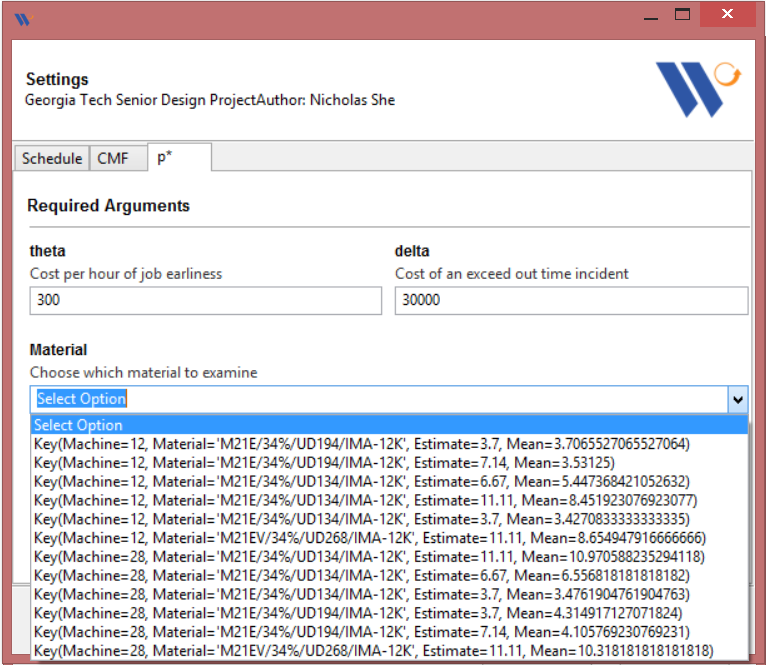
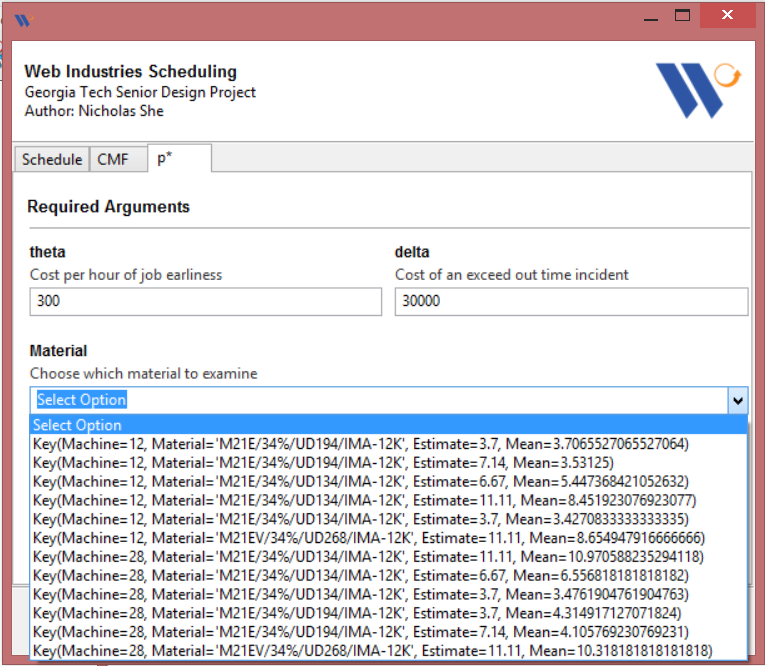
Updated README.md and images

diff --git a/deliverable/driver.py b/deliverable/driver.py
@@ -32,7 +32,7 @@ def main():
     #----------------------------------------------------------------------------
     # Command line arguments.
     # Add a tabbed group for each different program functionality.
-    PARSER = GooeyParser(description = 'Georgia Tech Senior Design Project' \
+    PARSER = GooeyParser(description = 'Georgia Tech Senior Design Project\n' \
                                        'Author: Nicholas She ')
     PARSER.add_argument('--verbose', help='be verbose', dest='verbose',
                         action='store_true', default=False)
@@ -46,7 +46,7 @@ def main():
         "Constrained programming scheduling tool",
         "Specify input and output parameters",
         gooey_options={
-            'show_border': True,
+            'show_border': False,
             'columns': 3})
     io_group.add_argument(
         'Schedule_Input',

diff --git a/README.md b/README.md
@@ -67,56 +67,85 @@ Run the GUI application with the driver
 python driver.py
 ```
 
-## Running the tests
+## Deliverable Instructions
 
-Explain how to run the automated tests for this system
+### Schedule
 
-### Break down into end to end tests
+Input an Excel Spreadsheet with the jobs to be scheduled and output a schedule that minimizes the makespan of all jobs.
 
-Explain what these tests test and why
+<img src="https://github.com/nzqs/sdteam17/blob/master/deliverable/resources/images/GUI%20Schedule%20tab.PNG">
 
-```
-Give an example
-```
+Constrained programming scheduling tool:
+|Field|Explanation|
+|:----------|--------------------------------------------|
+|Schedule_Input|Input Excel File|
+|write_schedule|Path to write output to|
+|sheet|Name of sheet with the jobs|
+|processing|Column of processing times. Populate this column from the p* tab|
+|WO|Column of Work Orders|
+|set|Column of sets in a Work Order|
+|material|Column of the resin type or material|
+|width|Column of the slit widths|
+|due|Column of due dates|
 
-### And coding style tests
+Config Options
+|Field|Explanation|
+|:----------|--------------------------------------------|
+|truncate|If Yes, will group sets together in their respective Work Orders, then schedule Work Orders as jobs. The processing time will be the sum of the processing times of the sets. If No, will schedule each set as a job. Using yes will **greatly** speed up solution time|
+|start_time|When to start the first job of the schedule|
+|max_run|Maximum time in seconds to run the tool. If reached, will output the best schedule found up to that point|
+|output_proto|Write the model into a file|
+|preprocess_times|Build minimal setups into the job duration. Keeping this ticked will speed up the tool|
 
-Explain what these tests test and why
+Example run:
+<img src="https://github.com/nzqs/sdteam17/blob/master/deliverable/resources/images/GUI%20Schedule%20Run%20example.PNG?raw=true">
 
-```
-Give an example
-```
+### CMF
 
-## Deployment
+CMF tab is for inputting historical data to fit empirical mass distributions of processing times for different materials. We use these distributions when calculating optimal allotted processing times in the p* tab.
 
-Add additional notes about how to deploy this on a live system
+<img src="https://github.com/nzqs/sdteam17/blob/master/deliverable/resources/images/GUI%20CMF%20tab.PNG">
 
-## Built With
+Load or modify historical data
+|Field|Explanation|
+|:----------|--------------------------------------------|
+|CMF_Input|Input Excel file containing historical data|
+|sheet|Name of the sheet containing historical data|
+|mat_col|Column of which material or resin jobs were|
+|mach_col|Column of which machine jobs were ran on|
+|estim_col|Column of the estimated processing time used|
+|actual_col|Column of the actual processing time each job took|
 
-* [Dropwizard](http://www.dropwizard.io/1.0.2/docs/) - The web framework used
-* [Maven](https://maven.apache.org/) - Dependency Management
-* [ROME](https://rometools.github.io/rome/) - Used to generate RSS Feeds
+The historical data describes the processing times of previous jobs. The unique combination of Machine, Material Type, and Estimated Time determines how the distributions are grouped.
 
-## Contributing
+### p*
 
-Please read [CONTRIBUTING.md](https://gist.github.com/PurpleBooth/b24679402957c63ec426) for details on our code of conduct, and the process for submitting pull requests to us.
+Calculate a value of p* to use in the schedule. Requires historical data to be loaded. Again, grouped by unique combination of Machine, Material Type, and Estimated Time.
 
-## Versioning
+<img src="https://github.com/nzqs/sdteam17/blob/master/deliverable/resources/images/GUI%20pstar%20tab.PNG">
 
-We use [SemVer](http://semver.org/) for versioning. For the versions available, see the [tags on this repository](https://github.com/your/project/tags).
+Required Arguments
+|Field|Explanation|
+|:----------|--------------------------------------------|
+|theta|Dollar cost per hour of machine downtime|
+|delta|Dollar cost per exceed out incident that fails testing|
+|Material|The material we wish to find allotted processing time for.|
 
 ## Authors
 
-* **Billie Thompson** - *Initial work* - [PurpleBooth](https://github.com/PurpleBooth)
+* **Nicholas She**
 
-See also the list of [contributors](https://github.com/your/project/contributors) who participated in this project.
-
-## License
-
-This project is licensed under the MIT License - see the [LICENSE.md](LICENSE.md) file for details
+In collaboration with
+* *Suyoun Choi*
+* *Camille George*
+* *Jin Soo Kim*
+* *Maryam Moshrefi*
+* *Mallory Herrmann*
 
 ## Acknowledgments
 
-* Hat tip to anyone whose code was used
-* Inspiration
-* etc
+Special thanks to our fantastic advisor
+* **Dr. Gamze Tokol-Goldsman**
+and other Georgia Tech ISYE faculty for their assistance and advice
+* *Dr. Dima Nazzal*
+* *Dr. Chen Zhou*
